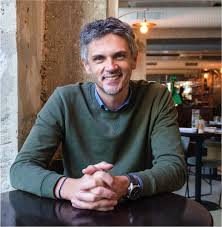
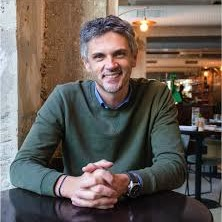
deplacement de lover dans le bon controller. Mise en page. Recadrage des images

diff --git a/views/lovers.php b/views/lovers.php
@@ -1,0 +1,110 @@
+<?php
+include("..\controllers\lovers_controller.php");
+?>
+<!doctype html>
+<html lang="fr">
+
+<head>
+    <meta charset="utf-8">
+    <meta name="viewport" content="width=device-width, initial-scale=1.0">
+    <link href="https://cdn.jsdelivr.net/npm/bootstrap@5.0.0-beta1/dist/css/bootstrap.min.css" rel="stylesheet" <link href="" rel="stylesheet">
+    <link href="\assets\style\style.css" rel="stylesheet">
+    <title>Nos lovers</title>
+</head>
+
+<body>
+    <nav id="idnav" class="navbar  navbar-expand-lg d-flex justify-content-end sticky-top">
+        <button class="navbar-toggler" type="button" data-bs-toggle="collapse" data-bs-target="#navbarSupportedContent" aria-controls="navbarSupportedContent" aria-expanded="false" aria-label="Toggle navigation">
+            <span class="navbar-toggler-icon"></span>
+        </button>
+        <div class="collapse navbar-collapse" id="navbarSupportedContent">
+            <a class="navbar-brand" href="../index.php"><span class="red">M</span>eet <br><span class="red">M</span>e
+                <svg xmlns="http://www.w3.org/2000/svg" fill="rgb(163, 31, 31)" width="30" height="30" viewBox="0 0 24 24">
+                    <path d="M12 4.248c-3.148-5.402-12-3.825-12 2.944 0 4.661 5.571 9.427 12 15.808 6.43-6.381 12-11.147 12-15.808 0-6.792-8.875-8.306-12-2.944z" />
+                </svg>
+                <br> <span class="red">H</span>alfway</a>
+            </a>
+            <p id="infolover"> Hello ! <?= $_COOKIE['userFirstname'] ?></p>
+            <ul id="nav2" class="navbar-nav ms-auto mb-2 mb-lg-0  ">
+                <li> <button id="btnmessage" type="button" class="btn btn-danger position-relative">
+                        Message(s)<span class="position-absolute top-0 start-100 translate-middle badge rounded-pill bg-secondary">+13 <span class="visually-hidden">unread messages</span></span>
+                    </button></li>
+                <li><a href="\views\user.php">
+                        <button id="btnprofile" type="button" class="btn btn-danger">Votre profil</button>
+                    </a> </li>
+                <li>
+                    <form method="POST">
+                        <button type="submit" id="btndeconex" name="btndeconex" class="btn btn-danger">Déconnexion</button>
+                    </form>
+                </li>
+            </ul>
+        </div>
+    </nav>
+    <div class="container mx-auto">
+        <div class="row row-cols-1 row-cols-md-4 g-4">
+            <?php
+            // le person c'est le compteur et infos c'est la ligne avec la liste des informations
+            foreach ($TabLovers as $person => $information) {
+                $gendercherch = ($_COOKIE['userSearching']);
+                if ($information['gender'] == $gendercherch) {
+
+
+                    $fsname = $information['firstname'];
+                    $lstname = $information['lastname'];
+                    $desc = $information['description'];
+                    $idmodal = "modal$person";
+            ?>
+                    <div class="col ">
+                        <div class="card" style="width: 18rem;">
+                            <img src=<?php echo $information['picture'];  ?> height="300" class="card-img-top" alt=<?= "$fsname   $lstname;" ?>>
+                            <div class="card-body">
+                                <h5 class="card-title"> <?= $fsname . " " .$lstname ; ?> </h5>
+                                <p class="card-text"><?= $desc ?> </p>
+                                <a>
+                                    <!-- Button trigger modal -->
+                                    <button type="button" id="btndiscut" class="btn btn-danger" data-bs-toggle="modal" data-bs-target="#<?= $idmodal; ?>">
+                                        Discuter
+                                    </button>
+                                </a>
+                                <a id="btnlike" class="btn btn-danger">Like </a>
+                            </div>
+                        </div>
+                    </div>
+                    <!-- Modal  discussion-->
+                    <div class="modal fade" id="<?= $idmodal; ?>" tabindex="-1" aria-labelledby="exampleModalLabel" aria-hidden="true">
+                        <div class="modal-dialog">
+                            <div class="modal-content">
+                                <div class="modal-header">
+                                    <h5 class="modal-title w-100 text-center" id="exampleModalLabel "><?= $lstname . " " . $fsname; ?> </h5>
+                                    <button type="button" class="btn-close" data-bs-dismiss="modal" aria-label="Close"></button>
+                                </div>
+                                <label for="message" id="labelmessage"><strong>Dis lui tout :</strong> </label>
+                                <div class="modal-body">
+
+                                    <textarea id="message" name="story" rows="5" cols="63">
+                                </textarea>
+                                </div>
+                                <div class="modal-footer">
+                                    <button type="button" class="btn btn-danger" data-bs-dismiss="modal">Fermer</button>
+                                    <button type="button" class="btn btn-danger" data-bs-dismiss="modal">Envoyer</button>
+                                </div>
+                            </div>
+                        </div>
+                    </div>
+
+            <?php
+                }
+            }
+            ?>
+
+        </div>
+    </div>
+
+    <?php include("footer.php"); ?>
+
+</body>
+<script src="assets/js/script.js"> </script>
+<script src="https://cdn.jsdelivr.net/npm/@popperjs/core@2.5.4/dist/umd/popper.min.js" integrity="sha384-q2kxQ16AaE6UbzuKqyBE9/u/KzioAlnx2maXQHiDX9d4/zp8Ok3f+M7DPm+Ib6IU" crossorigin="anonymous"></script>
+<script src="https://cdn.jsdelivr.net/npm/bootstrap@5.0.0-beta1/dist/js/bootstrap.min.js" integrity="sha384-pQQkAEnwaBkjpqZ8RU1fF1AKtTcHJwFl3pblpTlHXybJjHpMYo79HY3hIi4NKxyj" crossorigin="anonymous"></script>
+
+</html>

diff --git a/index.php b/index.php
@@ -14,31 +14,30 @@
 <body>
 
     <nav id="idnav" class="navbar  navbar-expand-lg d-flex justify-content-end sticky-top">
-        <a class="navbar-brand" href="index.php"><span class="red">M</span>eet <br><span class="red">M</span>e
-            <svg xmlns="http://www.w3.org/2000/svg" fill="red" width="30" height="30" viewBox="0 0 24 24">
-                <path d="M12 4.248c-3.148-5.402-12-3.825-12 2.944 0 4.661 5.571 9.427 12 15.808 6.43-6.381 12-11.147 12-15.808 0-6.792-8.875-8.306-12-2.944z" />
-            </svg>
-            <br> <span class="red">H</span>alfway</a>
-        </a>
-
-        <ul id="nav2" class="navbar-nav ms-auto mb-2 mb-lg-0  ">
-            <li> <button id="btnmessage" type="button" class="btn btn-danger position-relative">
-                    MESSAGES ! <span class="position-absolute top-0 start-100 translate-middle badge rounded-pill bg-secondary">+13 <span class="visually-hidden">unread messages</span></span>
-                </button></li>
-            <li><a href="\views\user.php">
-                    <button id="btnprofile" type="button" class="btn btn-danger">Profile</button>
-                </a> </li>
-            <?php
-            if (isset($_COOKIE['userLastname']) && isset($_COOKIE['userFirstname']) && isset($_COOKIE['userAge']) && isset($_COOKIE['userGender']) && isset($_COOKIE['userZipcode']) && isset($_COOKIE['userMail']) && isset($_COOKIE['userSearching']) && isset($_COOKIE['userDescription'])) {
-            ?>
+        <button class="navbar-toggler" type="button" data-bs-toggle="collapse" data-bs-target="#navbarSupportedContent" aria-controls="navbarSupportedContent" aria-expanded="false" aria-label="Toggle navigation">
+            <span class="navbar-toggler-icon"></span>
+        </button>
+        <div class="collapse navbar-collapse" id="navbarSupportedContent">
+            <a class="navbar-brand" href="index.php"><span class="red">M</span>eet <br><span class="red">M</span>e
+                <svg xmlns="http://www.w3.org/2000/svg" fill="rgb(163, 31, 31)" width="30" height="30" viewBox="0 0 24 24">
+                    <path d="M12 4.248c-3.148-5.402-12-3.825-12 2.944 0 4.661 5.571 9.427 12 15.808 6.43-6.381 12-11.147 12-15.808 0-6.792-8.875-8.306-12-2.944z" />
+                </svg>
+                <br> <span class="red">H</span>alfway</a>
+            </a>
+            <p id="infolover"> Hello ! </p>
+            <ul id="nav2" class="navbar-nav ms-auto mb-2 mb-lg-0  ">
+                <li> <button id="btnmessage" type="button" class="btn btn-danger position-relative">
+                        Message(s)<span class="position-absolute top-0 start-100 translate-middle badge rounded-pill bg-secondary">+13 <span class="visually-hidden">unread messages</span></span>
+                    </button></li>
+                <li><a href="\views\user.php">
+                        <button id="btnprofile" type="button" class="btn btn-danger">Votre profil</button>
+                    </a> </li>
                 <li>
                     <form method="POST">
-                        <button type="submit" id="btndeconex" name="btndeconex" class="btn btn-danger">Destroy</button>
+                        <button type="submit" id="btndeconex" name="btndeconex" class="btn btn-danger">Déconnexion</button>
                     </form>
                 </li>
-            <?php } ?>
-        </ul>
-
+            </ul>
         </div>
     </nav>
 
@@ -178,5 +177,9 @@
         AOS.init();
     </script>
 </body>
+<script src="assets/js/script.js"> </script>
+<script src="https://cdn.jsdelivr.net/npm/@popperjs/core@2.5.4/dist/umd/popper.min.js" integrity="sha384-q2kxQ16AaE6UbzuKqyBE9/u/KzioAlnx2maXQHiDX9d4/zp8Ok3f+M7DPm+Ib6IU" crossorigin="anonymous"></script>
+<script src="https://cdn.jsdelivr.net/npm/bootstrap@5.0.0-beta1/dist/js/bootstrap.min.js" integrity="sha384-pQQkAEnwaBkjpqZ8RU1fF1AKtTcHJwFl3pblpTlHXybJjHpMYo79HY3hIi4NKxyj" crossorigin="anonymous"></script>
+
 
 </html>

diff --git a/controllers/index_controller.php b/controllers/index_controller.php
@@ -18,11 +18,16 @@ function CheckInput($regex, $posted) // Fonction pour verifier les champs
         return TRUE;
     }
 }
-// if (isset($_COOKIE['userLastname']) && isset($_COOKIE['userFirstname']) && isset($_COOKIE['userAge']) && isset($_COOKIE['userGender']) && isset($_COOKIE['userZipcode']) && isset($_COOKIE['userMail']) && isset($_COOKIE['userSearching']) && isset($_COOKIE['userDescription'])) {
-//     
-// } else {
+if (isset($_COOKIE['userLastname']) && isset($_COOKIE['userFirstname']) 
+&& isset($_COOKIE['userAge']) && isset($_COOKIE['userGender']) && isset($_COOKIE['userZipcode']) 
+&& isset($_COOKIE['userMail']) && isset($_COOKIE['userSearching']) && isset($_COOKIE['userDescription'])) 
+{
+header('Location: http://projetphpsiterencontre/views/lovers.php');
+}
 
+// Quand le form est submit :
 if (isset($_POST['submitButton'])) {
+    // compteur d'erreur
     $e = 0;
     // Verif Nom
     if (CheckInput($regexName, $_POST['lastname'])) {
@@ -80,7 +85,6 @@ if (isset($_POST['submitButton'])) {
     if (empty($_POST['searching'])) {
         $searchingError = $errorMessage;
         $e++;
-
     } else {
         setcookie('userSearching', $_POST['searching'], time() + 86400);
     }
@@ -108,8 +112,22 @@ if (isset($_POST['submitButton'])) {
             $e++;
         }
     }
+    // si le compteur d'erreur est nulle, on redirige vers Lover. 
     if ($e == 0) {
-        header('Location: http://projetphpsiterencontre/lover');
-        //     exit();
+        header('Location: http://projetphpsiterencontre/views/lovers');
     }
+}
+
+// Bouton deconnexion navbar 
+if (isset($_POST['btndeconex'])) {
+    setcookie('userLastname', '', time() - 3600, '/');
+    setcookie('userFirstname', '', time() - 3600, '/');
+    setcookie('userAge', '', time() - 3600, '/');
+    setcookie('userMail', '', time() - 3600, '/');
+    setcookie('userGender', '', time() - 3600, '/');
+    setcookie('userPicture', '', time() - 3600, '/');
+    setcookie('userZipcode', '', time() - 3600, '/');
+    setcookie('userSearching', '', time() - 3600, '/');
+    setcookie('userDescription', '', time() - 3600, '/');
+    header('Location: ../index');
 }

diff --git a/views/user.php b/views/user.php
@@ -18,7 +18,7 @@
             <span class="navbar-toggler-icon"></span>
         </button>
         <div class="collapse navbar-collapse" id="navbarSupportedContent">
-            <a class="navbar-brand" href="index.php"><span class="red">M</span>eet <br><span class="red">M</span>e
+            <a class="navbar-brand" href="../index.php"><span class="red">M</span>eet <br><span class="red">M</span>e
                 <svg xmlns="http://www.w3.org/2000/svg" fill="rgb(163, 31, 31)" width="30" height="30" viewBox="0 0 24 24">
                     <path d="M12 4.248c-3.148-5.402-12-3.825-12 2.944 0 4.661 5.571 9.427 12 15.808 6.43-6.381 12-11.147 12-15.808 0-6.792-8.875-8.306-12-2.944z" />
                 </svg>
@@ -73,9 +73,9 @@
             </div>
         </div>
     </div>
-
+<div class="display-block">
     <?php include("footer.php"); ?>
-
+    </div>
     <script src="https://unpkg.com/aos@2.3.1/dist/aos.js"></script>
     <script>
         AOS.init();
